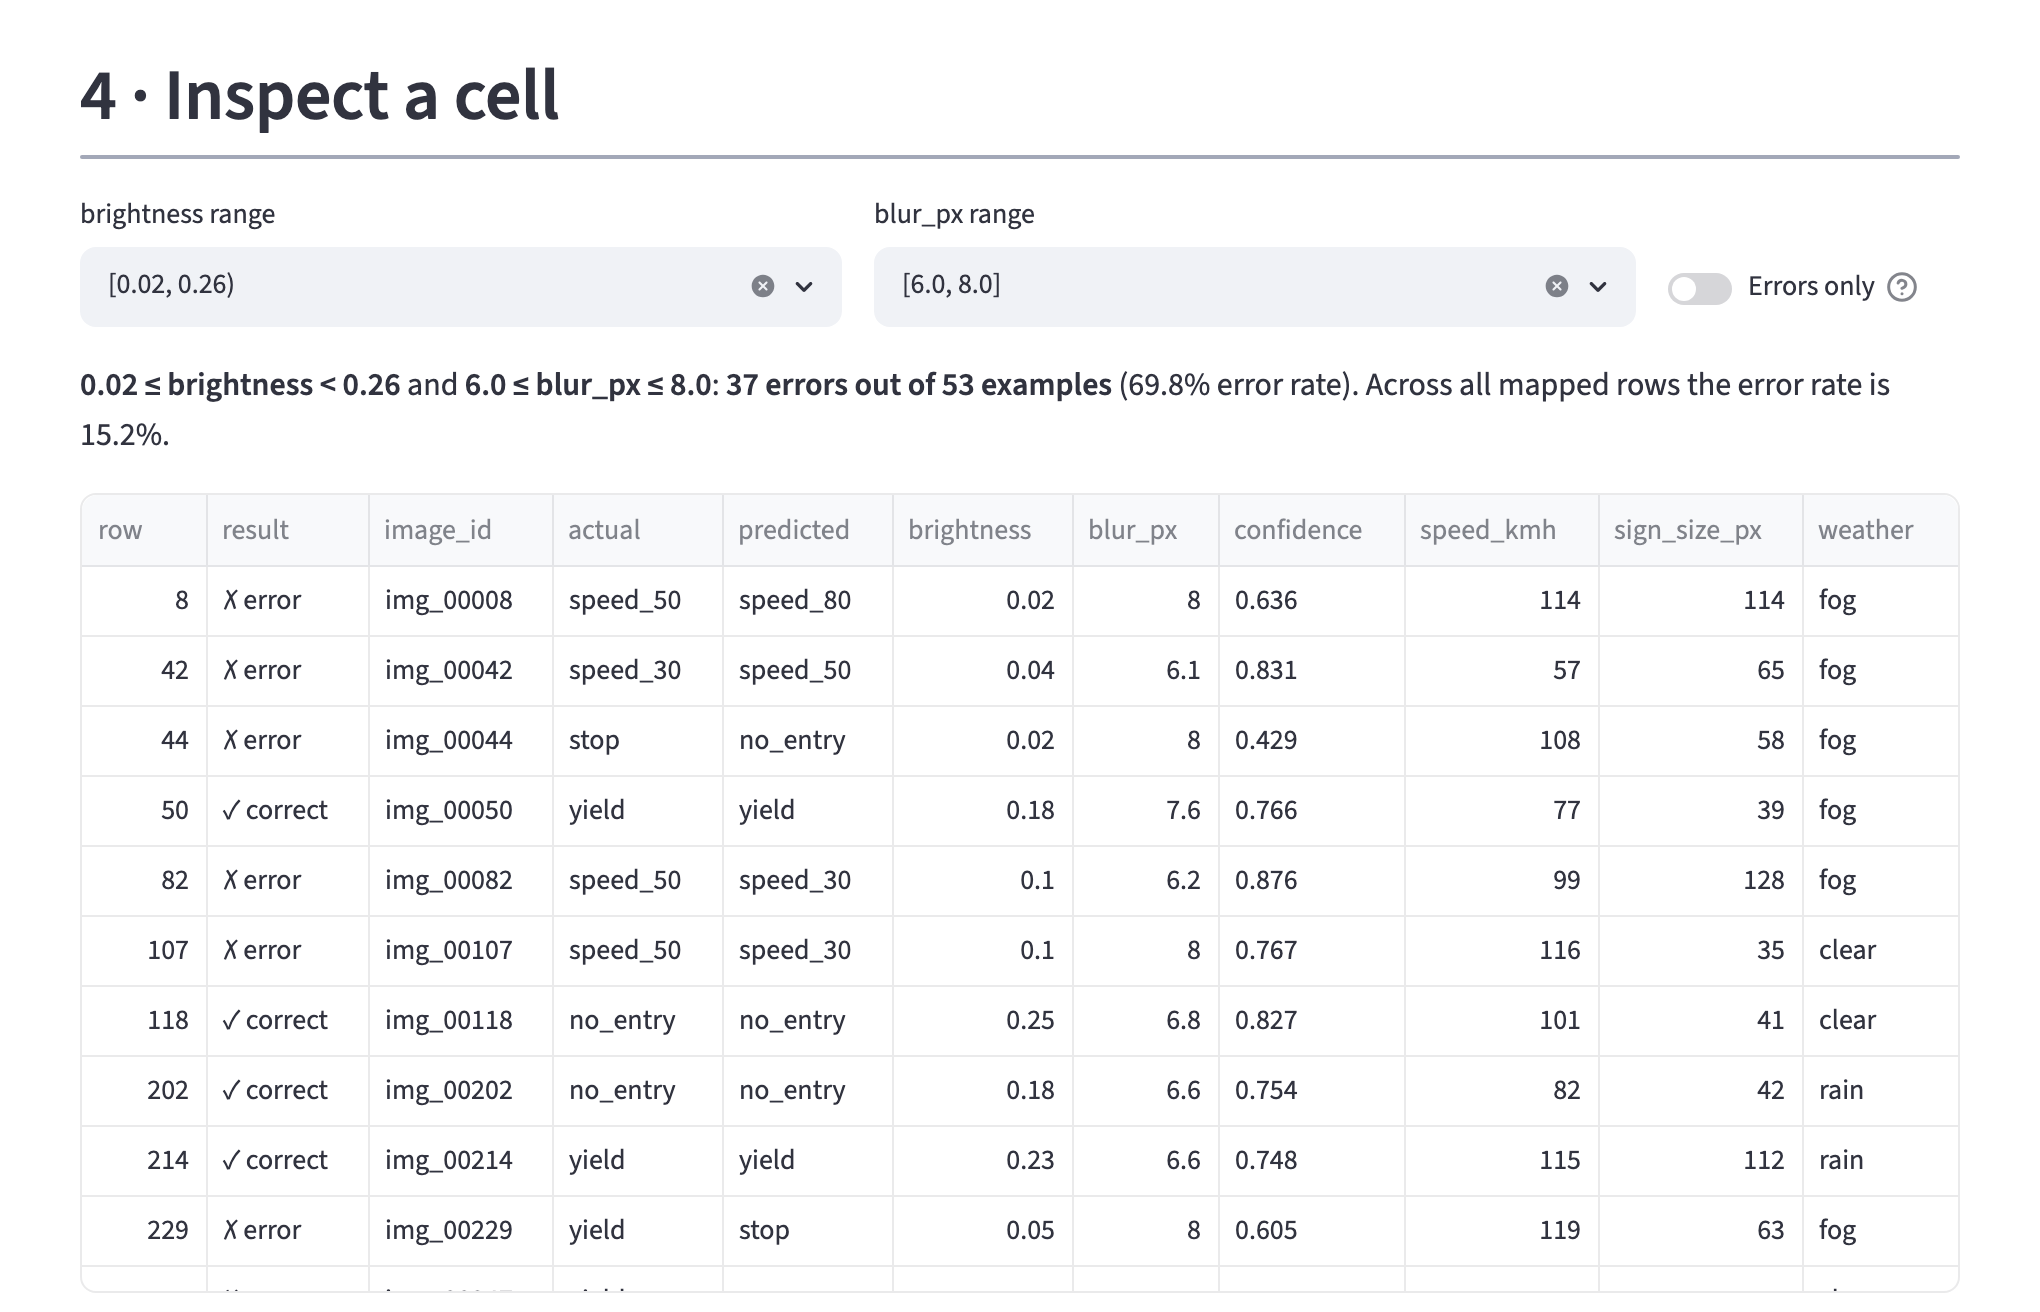
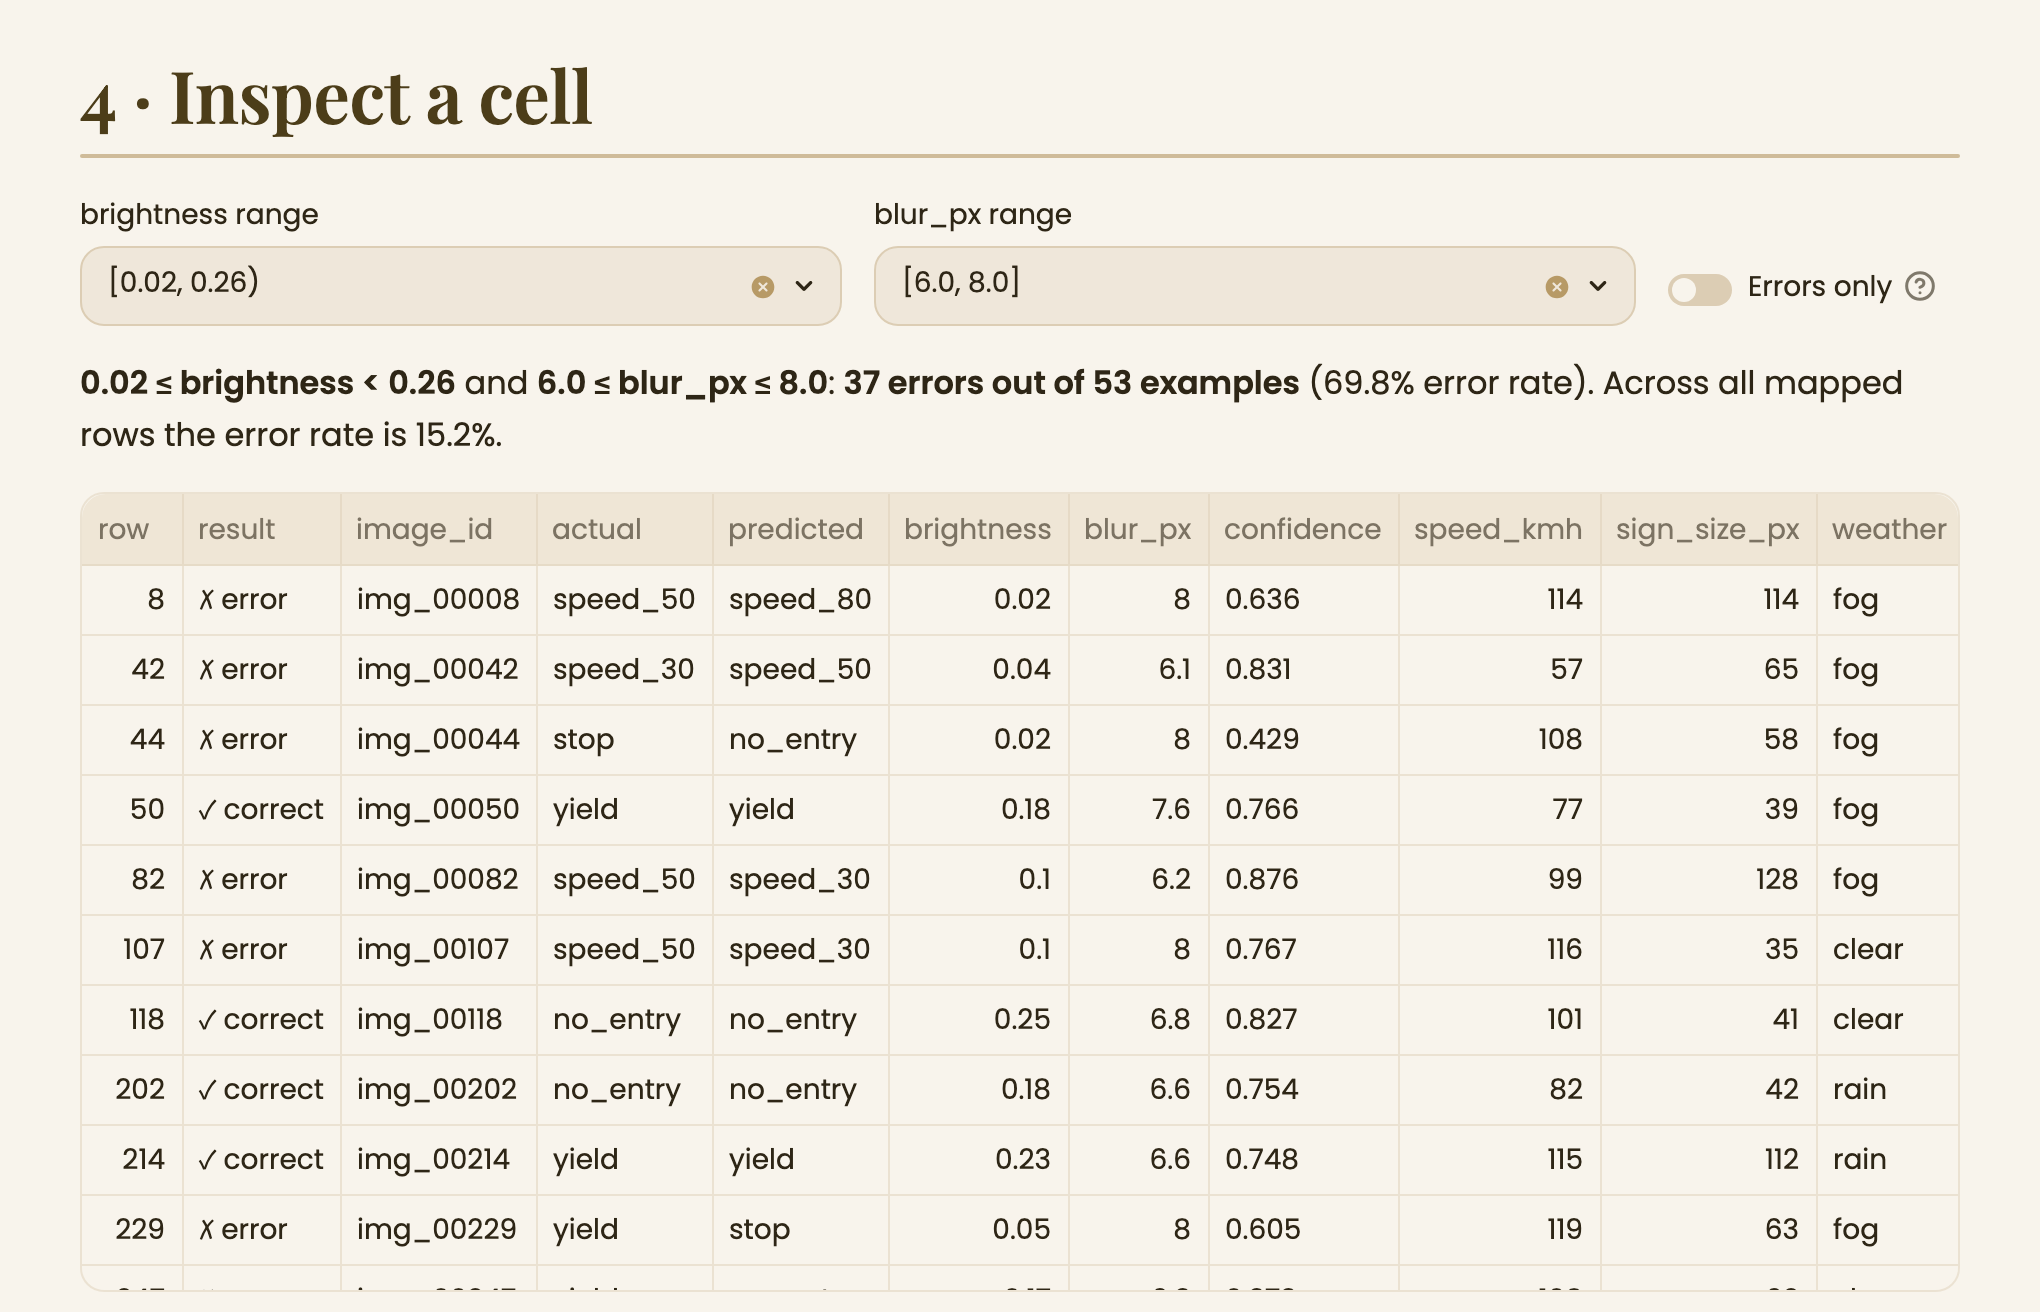
Restyle the app with the Café Noir, Kombu, Moss, Tan and Bone scheme
Light and dark themes in .streamlit/config.toml set the colours, Playfair
Display headings and Poppins body text, chart colours validated for
colour-vision separation, and alert colours that keep 4.5:1 text contrast.
A small CSS layer in app.py adds what the theme can't express: a hero with a
decorative mini map, card styling and a gradient primary button. README
screenshots are regenerated to match.

diff --git a/app.py b/app.py
@@ -1113,11 +1113,93 @@ def reports_section(raw, evaluation, metadata, fmap, selected, result=None):
 
 
 # ---------------------------------------------------------------------------
+# Page style: the theme in .streamlit/config.toml sets colours and fonts; this
+# adds what the theme can't express (cards, the hero, the button gradient).
+
+STYLE_TOKENS = {
+    "light": {
+        "heading": "#4c3d19",
+        "hero": "linear-gradient(120deg, #f2eadd 0%, #e5d7c4 55%, #cfbb99 100%)",
+        "card": "#fffdf9",
+        "card-border": "rgba(207, 187, 153, 0.6)",
+        "shadow": "0 14px 34px -20px rgba(76, 61, 25, 0.45)",
+        "button": "linear-gradient(135deg, #5f6d3d 0%, #354024 100%)",
+        "button-text": "#f8f4ec",
+        "outline": INK,
+    },
+    "dark": {
+        "heading": "#e5d7c4",
+        "hero": "linear-gradient(120deg, #221e15 0%, #2d2719 55%, #3a3120 100%)",
+        "card": "#221e15",
+        "card-border": "rgba(207, 187, 153, 0.16)",
+        "shadow": "0 14px 34px -20px rgba(0, 0, 0, 0.8)",
+        "button": "linear-gradient(135deg, #b5bc8b 0%, #889063 100%)",
+        "button-text": "#1a1710",
+        "outline": WHITE,
+    },
+}
+
+STYLE = """
+.st-key-hero { background: var(--atlas-hero); border-radius: 1.5rem; padding: 2.5rem 2.75rem; }
+.st-key-hero h1 { font-size: 3.4rem; line-height: 1.05; letter-spacing: -0.01em; padding-top: 0; }
+.st-key-hero p { font-size: 1.08rem; max-width: 36rem; }
+[data-testid="stMain"] h1, [data-testid="stMain"] h2, [data-testid="stMain"] h3 { color: var(--atlas-heading); }
+[data-testid="stMetric"], [data-testid="stExpander"] details {
+    background: var(--atlas-card); border-color: var(--atlas-card-border); border-radius: 1rem;
+}
+[data-testid="stMetric"] { box-shadow: var(--atlas-shadow); }
+[data-testid="stBaseButton-primary"] {
+    background: var(--atlas-button); border: none; color: var(--atlas-button-text); box-shadow: var(--atlas-shadow);
+    padding: 0.6rem 1.6rem; font-weight: 500;
+}
+[data-testid="stBaseButton-primary"]:hover { filter: brightness(1.08); color: var(--atlas-button-text); }
+.atlas-hero-art {
+    background: var(--atlas-card); border-radius: 1.25rem; box-shadow: var(--atlas-shadow);
+    padding: 1.1rem; width: min(100%, 15rem); margin-left: auto;
+    display: grid; grid-template-columns: repeat(4, 1fr); gap: 0.4rem;
+}
+.atlas-hero-art span { aspect-ratio: 1; border-radius: 0.45rem; }
+.atlas-hero-art .selected { outline: 2.5px solid var(--atlas-outline); outline-offset: 2px; }
+"""
+
+TAGLINE = (
+    "The model has an overall score, but **which kinds of examples does it get wrong?** "
+    "Choose two numeric features to map groups by error rate or error magnitude; "
+    "open any cell to read the exact rows behind it."
+)
+HERO_CELLS = ((12, 5, 4, 3), (9, 4, 2, 2), (7, 2, 1, 1), (3, 1, 2, 0))  # ramp steps of the decorative mini map
+
+
+def apply_style(dark: bool) -> None:
+    tokens = "".join(f"--atlas-{name}: {value};" for name, value in STYLE_TOKENS["dark" if dark else "light"].items())
+    st.html(f"<style>:root {{{tokens}}}{STYLE}</style>")
+
+
+def hero(dark: bool) -> None:
+    ramp = CAFE_RAMP[::-1] if dark else CAFE_RAMP
+    # st.html strips SVG, so the mini map is a grid of styled spans.
+    tiles = []
+    for row, steps in enumerate(HERO_CELLS):
+        for col, step in enumerate(steps):
+            selected = ' class="selected"' if (row, col) == (0, 0) else ""
+            tiles.append(f'<span{selected} style="background: {ramp[step]}"></span>')
+    with st.container(key="hero"):
+        text, picture = st.columns([3, 2], vertical_alignment="center")
+        with text:
+            st.title("Model Failure Atlas")
+            st.markdown(TAGLINE)
+        with picture:
+            st.html(f'<div class="atlas-hero-art" aria-hidden="true">{"".join(tiles)}</div>')
+
+
+# ---------------------------------------------------------------------------
 
 
 def main() -> None:
     st.set_page_config(page_title="Model Failure Atlas", page_icon="🗺", layout="wide")
-    st.title("Model Failure Atlas")
+    dark = theme_is_dark()
+    apply_style(dark)
+    hero(dark)
     mode = st.radio("Workflow", [ANALYZE_MODE, TRAIN_MODE], horizontal=True, key="workflow")
     task = st.radio("Prediction task", ["Classification", "Regression"], horizontal=True, key="prediction_task").lower()
     st.caption(
@@ -1135,12 +1217,6 @@ def main() -> None:
     with st.sidebar:
         dataset = choose_dataset() if mode == ANALYZE_MODE else training_dataset()
         settings = map_settings()
-
-    st.markdown(
-        "The model has an overall score, but **which kinds of examples does it get wrong?** "
-        "Choose two numeric features to map groups by error rate or error magnitude; "
-        "open any cell to read the exact rows behind it."
-    )
 
     if dataset is None:
         st.info("Upload a CSV in the sidebar to begin.")
